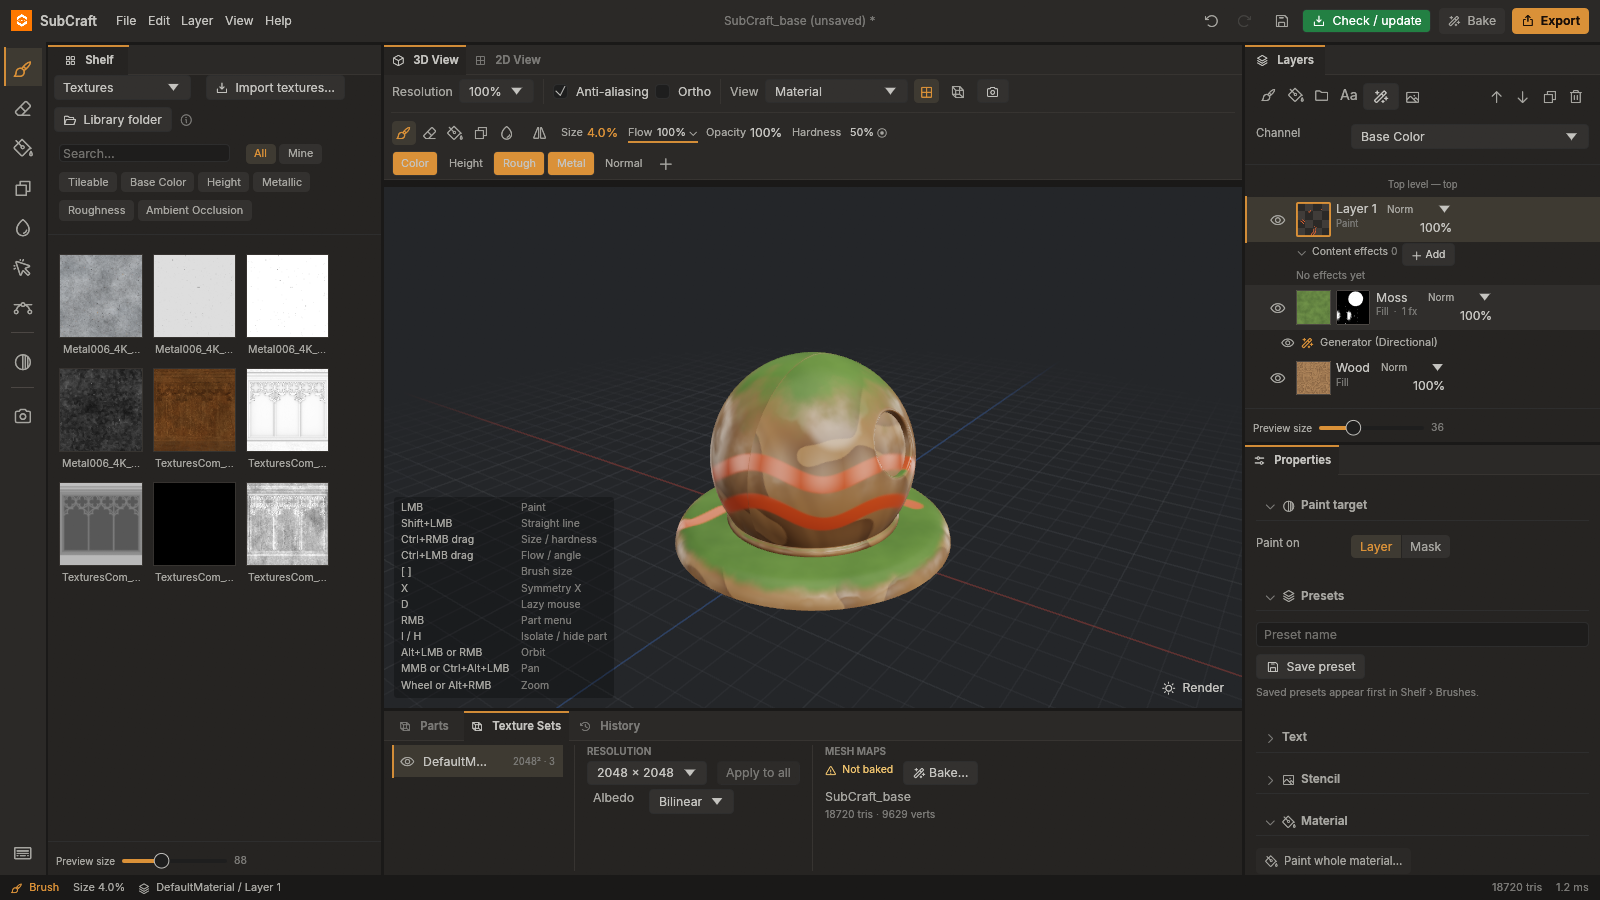
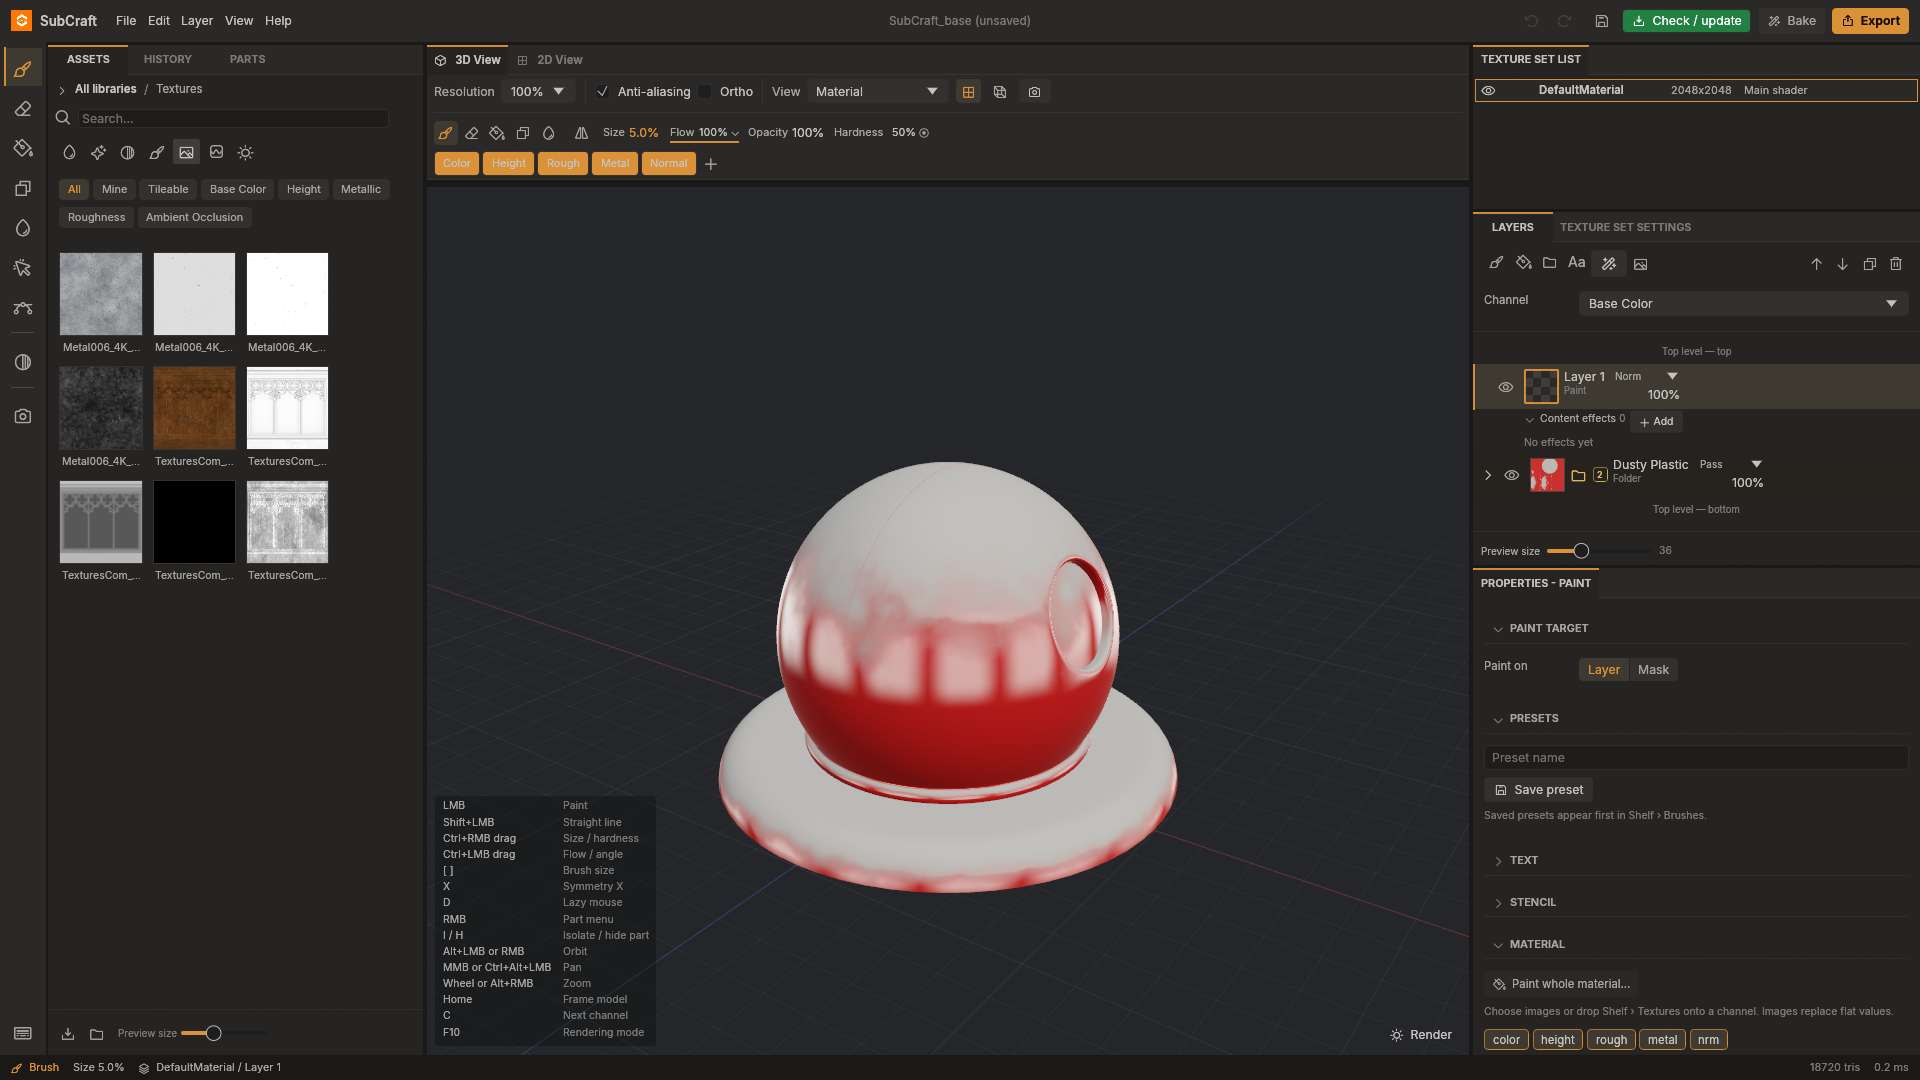
README: retake screenshots with the Painter-style layout and Dusty Plastic start material

diff --git a/README.md b/README.md
@@ -11,7 +11,7 @@
 Paint directly on 3D models with layered PBR materials, masks, generators and smart materials,
 bake mesh maps and export game-ready textures. Windows and Linux.
 
-![SubCraft with the bundled SubCraft_base model](docs/images/readme/ui-overview.png)
+![SubCraft opening on the SubCraft_base model with the Dusty Plastic smart material](docs/images/readme/ui-overview.png)
 
 > **Status: early but usable.** Painting, layers, baking, smart materials, save/load and export work
 > and are covered by tests. Expect rough edges and breaking changes to the project file format.
@@ -74,7 +74,9 @@ not as guarantees.
   handles in 3D or 2D, paths stay editable).
 - Paint in the 3D view or directly in the 2D UV view; Shift+click eyedropper picks all channels.
 
-![UV 2D view of SubCraft_base](docs/images/readme/uv-2d-view.png)
+![The 2D UV view with a layer stack: moss fill, generator and paint strokes](docs/images/readme/uv-2d-view.png)
+
+*The 2D view paints straight into the UV layout; the stack shown is the `--demo` project.*
 
 ### Layers, masks, generators and filters
 - Paint layers, fill layers (uniform, procedural, image, mesh-map sources) and folders; 32 blend modes;
@@ -94,7 +96,9 @@ not as guarantees.
 - CC0 starter pack of normal maps and brush alphas plus 10 bundled HDRI environments
   ([credits](assets/starter-pack/CREDITS-CC0.txt)). Your own library lives in `Documents\SubCraft\Library`.
 
-![Smart materials on the Shelf](docs/screenshots/v018-shelf-smart-materials.png)
+![Layer stack with a paint layer, a masked moss fill and a generator](docs/images/readme/demo-stack.png)
+
+*Paint layer over a masked fill with a Directional generator (the `--demo` project).*
 
 ### Baking
 - Normal (optionally from a high poly through a cage), world-space normal, Ambient Occlusion, Curvature,
@@ -105,6 +109,8 @@ not as guarantees.
   rasterization. Stencils and projected brush images cover decal-style work.
 
 ### Viewport and rendering
+![Render quality window](docs/images/readme/render-quality.png)
+
 - Real-time PBR viewport with studio or HDRI lighting; tone mapping, bloom, ambient occlusion, depth of field
   (off by default), emission glow and glare. These are display-only and never change exported textures.
 - Painter-style or Blender-style 3D navigation, wireframe overlay, camera bookmarks.
@@ -120,11 +126,11 @@ not as guarantees.
 - Export templates: PBR metal/rough, Unreal (ORM), Unity HDRP, Unity URP, Godot 4, glTF, Roblox and Sketchfab
   presets, 2D View export, and scene export (OBJ, glTF, GLB, USDA). Per-map checkboxes; Alt+click exports one map.
 
-![Export Textures window](docs/screenshots/v018-export-window.png)
-
 ### Languages
 - English, **한국어 (Korean)** and **繁體中文 (Traditional Chinese)**: Preferences > Interface > Language,
   applied immediately. CJK fonts are loaded from the system. See [`docs/localization.md`](docs/localization.md).
+
+![Preferences window with Language, graphics and 3D navigation settings](docs/images/readme/preferences.png)
 
 ## Install
 
